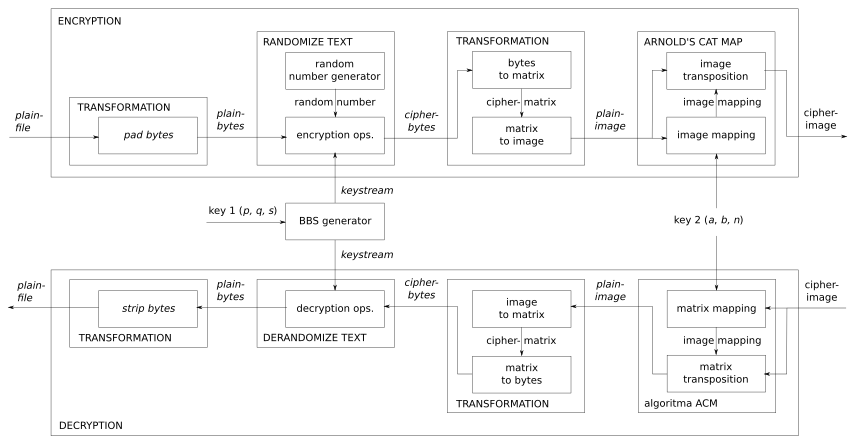
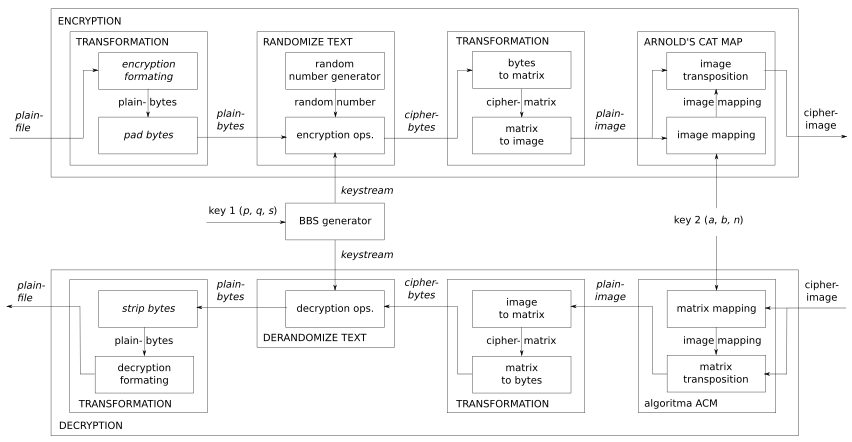
Add formatting block

diff --git a/test/test_app.py b/test/test_app.py
@@ -13,7 +13,7 @@ class TestFunctioning(unittest.TestCase):
         acm_b = 1
         acm_n = 5
 
-        plainfile_begin = np.random.randint(0, 256, 58, 'B')
+        plainfile_begin = np.random.randint(0, 256, 58, 'B').tobytes()
 
         cipherimage = Application(
             bbs_p, bbs_q, bbs_s, acm_a, acm_b, acm_n
@@ -23,7 +23,7 @@ class TestFunctioning(unittest.TestCase):
             bbs_p, bbs_q, bbs_s, acm_a, acm_b, acm_n
         ).decrypt(cipherimage)
 
-        self.assertEqual(plainfile_begin.all(), plainfile_end.all())
+        self.assertEqual(plainfile_begin, plainfile_end)
 
     def test_acm_general_equal(self):
         bbs_p = 7
@@ -33,7 +33,7 @@ class TestFunctioning(unittest.TestCase):
         acm_b = 2
         acm_n = 5
 
-        plainfile_begin = np.random.randint(0, 256, 58, 'B')
+        plainfile_begin = np.random.randint(0, 256, 58, 'B').tobytes()
 
         cipherimage = Application(
             bbs_p, bbs_q, bbs_s, acm_a, acm_b, acm_n
@@ -43,7 +43,7 @@ class TestFunctioning(unittest.TestCase):
             bbs_p, bbs_q, bbs_s, acm_a, acm_b, acm_n
         ).decrypt(cipherimage)
 
-        self.assertEqual(plainfile_begin.all(), plainfile_end.all())
+        self.assertEqual(plainfile_begin, plainfile_end)
 
     def test_acm_general_any(self):
         bbs_p = 7
@@ -53,7 +53,7 @@ class TestFunctioning(unittest.TestCase):
         acm_b = 3
         acm_n = 2
 
-        plainfile_begin = np.random.randint(0, 256, 58, 'B')
+        plainfile_begin = np.random.randint(0, 256, 58, 'B').tobytes()
 
         cipherimage = Application(
             bbs_p, bbs_q, bbs_s, acm_a, acm_b, acm_n
@@ -63,4 +63,4 @@ class TestFunctioning(unittest.TestCase):
             bbs_p, bbs_q, bbs_s, acm_a, acm_b, acm_n
         ).decrypt(cipherimage)
 
-        self.assertEqual(plainfile_begin.all(), plainfile_end.all())
+        self.assertEqual(plainfile_begin, plainfile_end)

diff --git a/blocks/transform.py b/blocks/transform.py
@@ -4,23 +4,25 @@ import numpy as np
 import math as mt
 
 
-def bytes_to_matrix(bts: np.ndarray):
-    dimension = int(mt.sqrt((len(bts) // 3)))
-    matrix = np.array(bts, np.dtype('B')).reshape(dimension, dimension, 3)
-
-    return matrix
+def encryption_formatting(plainfile: bytes):
+    return np.frombuffer(plainfile, np.dtype('B'))
 
 
-def matrix_to_bytes(matrix: np.ndarray):
-    return matrix.reshape(matrix.size)
+def decryption_formatting(plainbytes: np.ndarray):
+    return plainbytes.tobytes()
 
 
-def matrix_to_image(matrix: np.ndarray):
-    image = Image.fromarray(
-        matrix
-    )
+def bytes_to_matrix(plainbytes: np.ndarray):
+    dimension = int(mt.sqrt((len(plainbytes) // 3)))
+    return np.array(plainbytes, np.dtype('B')).reshape(dimension, dimension, 3)
 
-    return image
+
+def matrix_to_bytes(ciphermatrix: np.ndarray):
+    return ciphermatrix.reshape(ciphermatrix.size)
+
+
+def matrix_to_image(ciphermatrix: np.ndarray):
+    return Image.fromarray(ciphermatrix)
 
 
 def image_to_matrix(image: Image):

diff --git a/app.py b/app.py
@@ -18,7 +18,8 @@ class Application:
 
     def encrypt(self, plainfile):
         # TRANSFORMATION
-        plainbytes = transform.pad_bytes(plainfile)
+        plainbytes = transform.encryption_formatting(plainfile)
+        plainbytes = transform.pad_bytes(plainbytes)
 
         # RANDOMIZE TEXT
         cipherbytes = self.__rt.encrypt(plainbytes)
@@ -44,6 +45,7 @@ class Application:
         plainbytes = self.__rt.decrypt(cipherbytes)
 
         # TRANSFORMATION
-        plainfile = transform.strip_bytes(plainbytes)
+        plainbytes = transform.strip_bytes(plainbytes)
+        plainfile = transform.decryption_formatting(plainbytes)
 
         return plainfile
